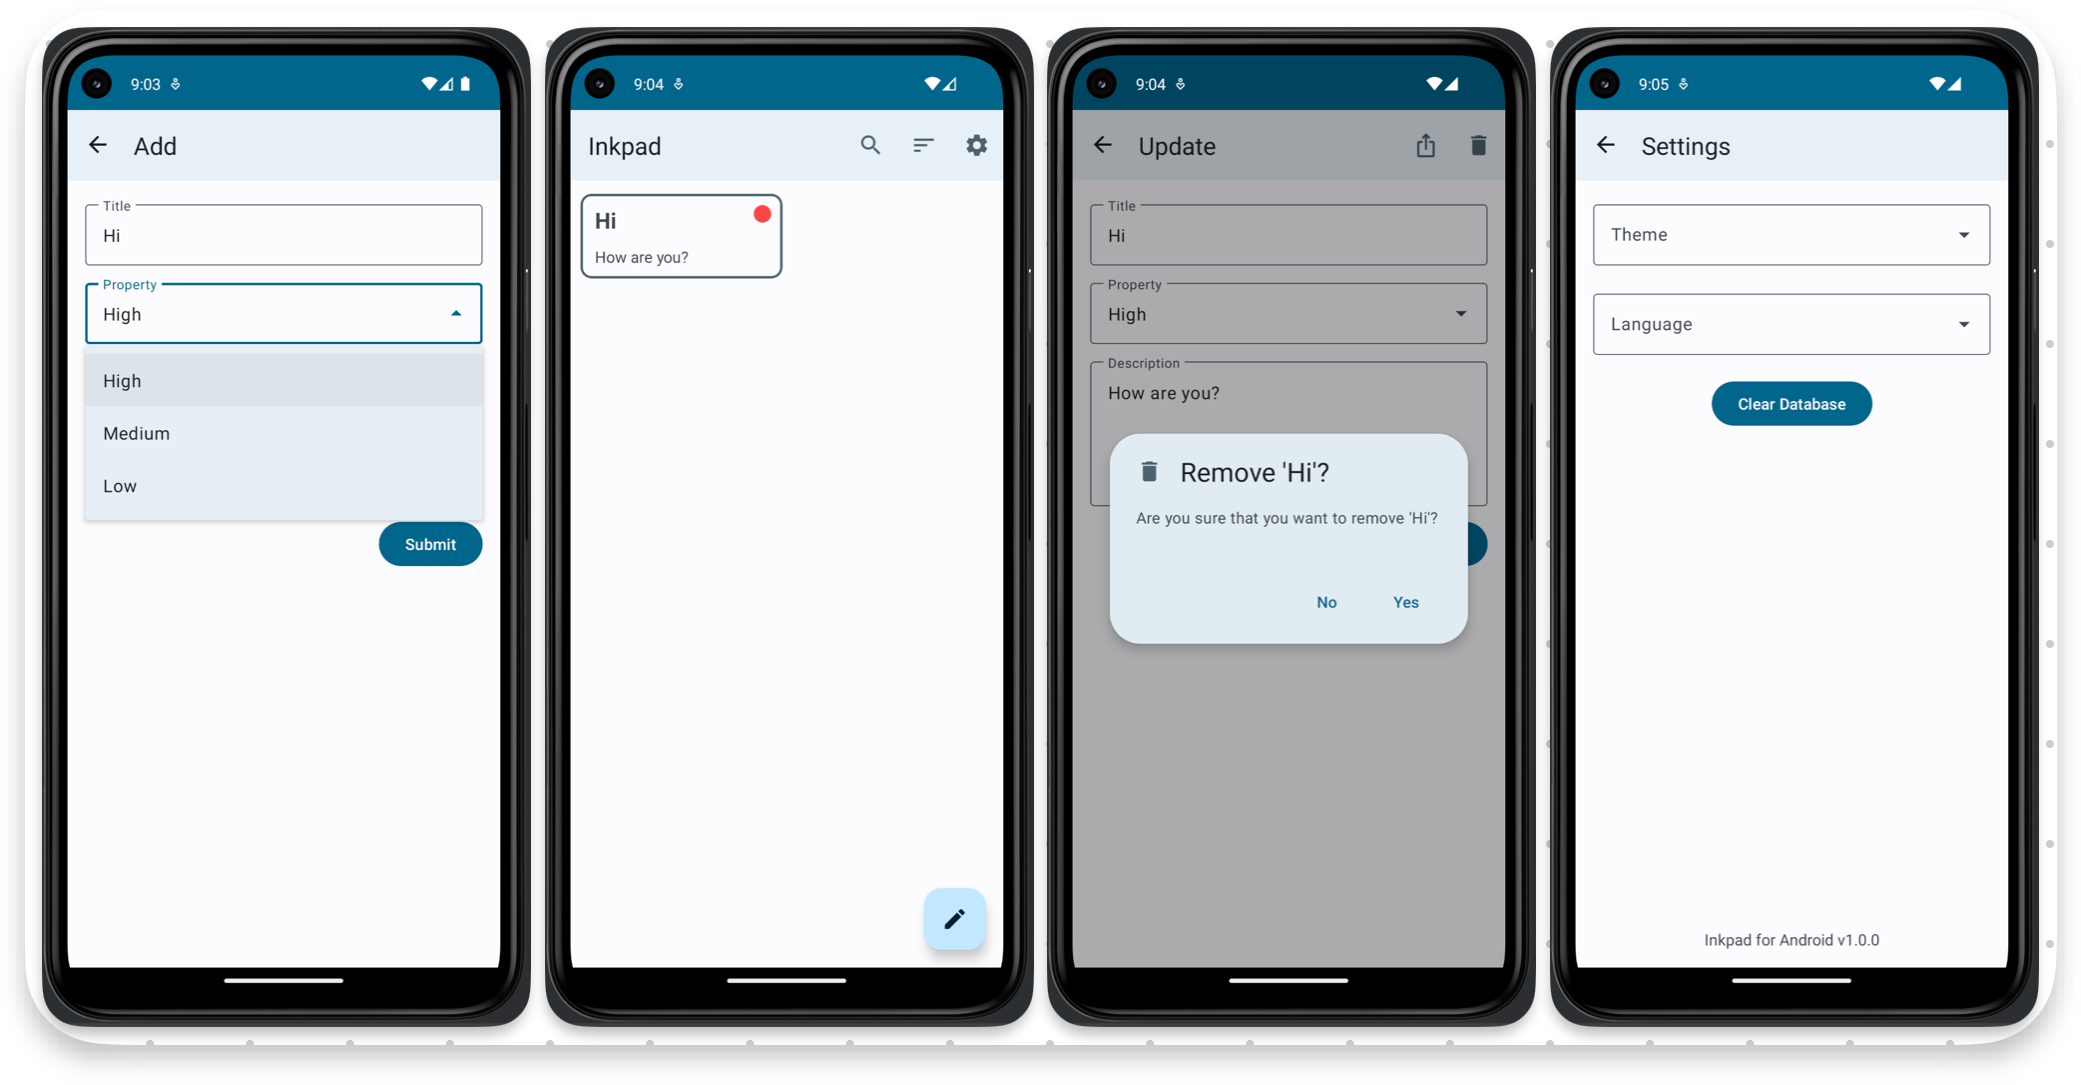
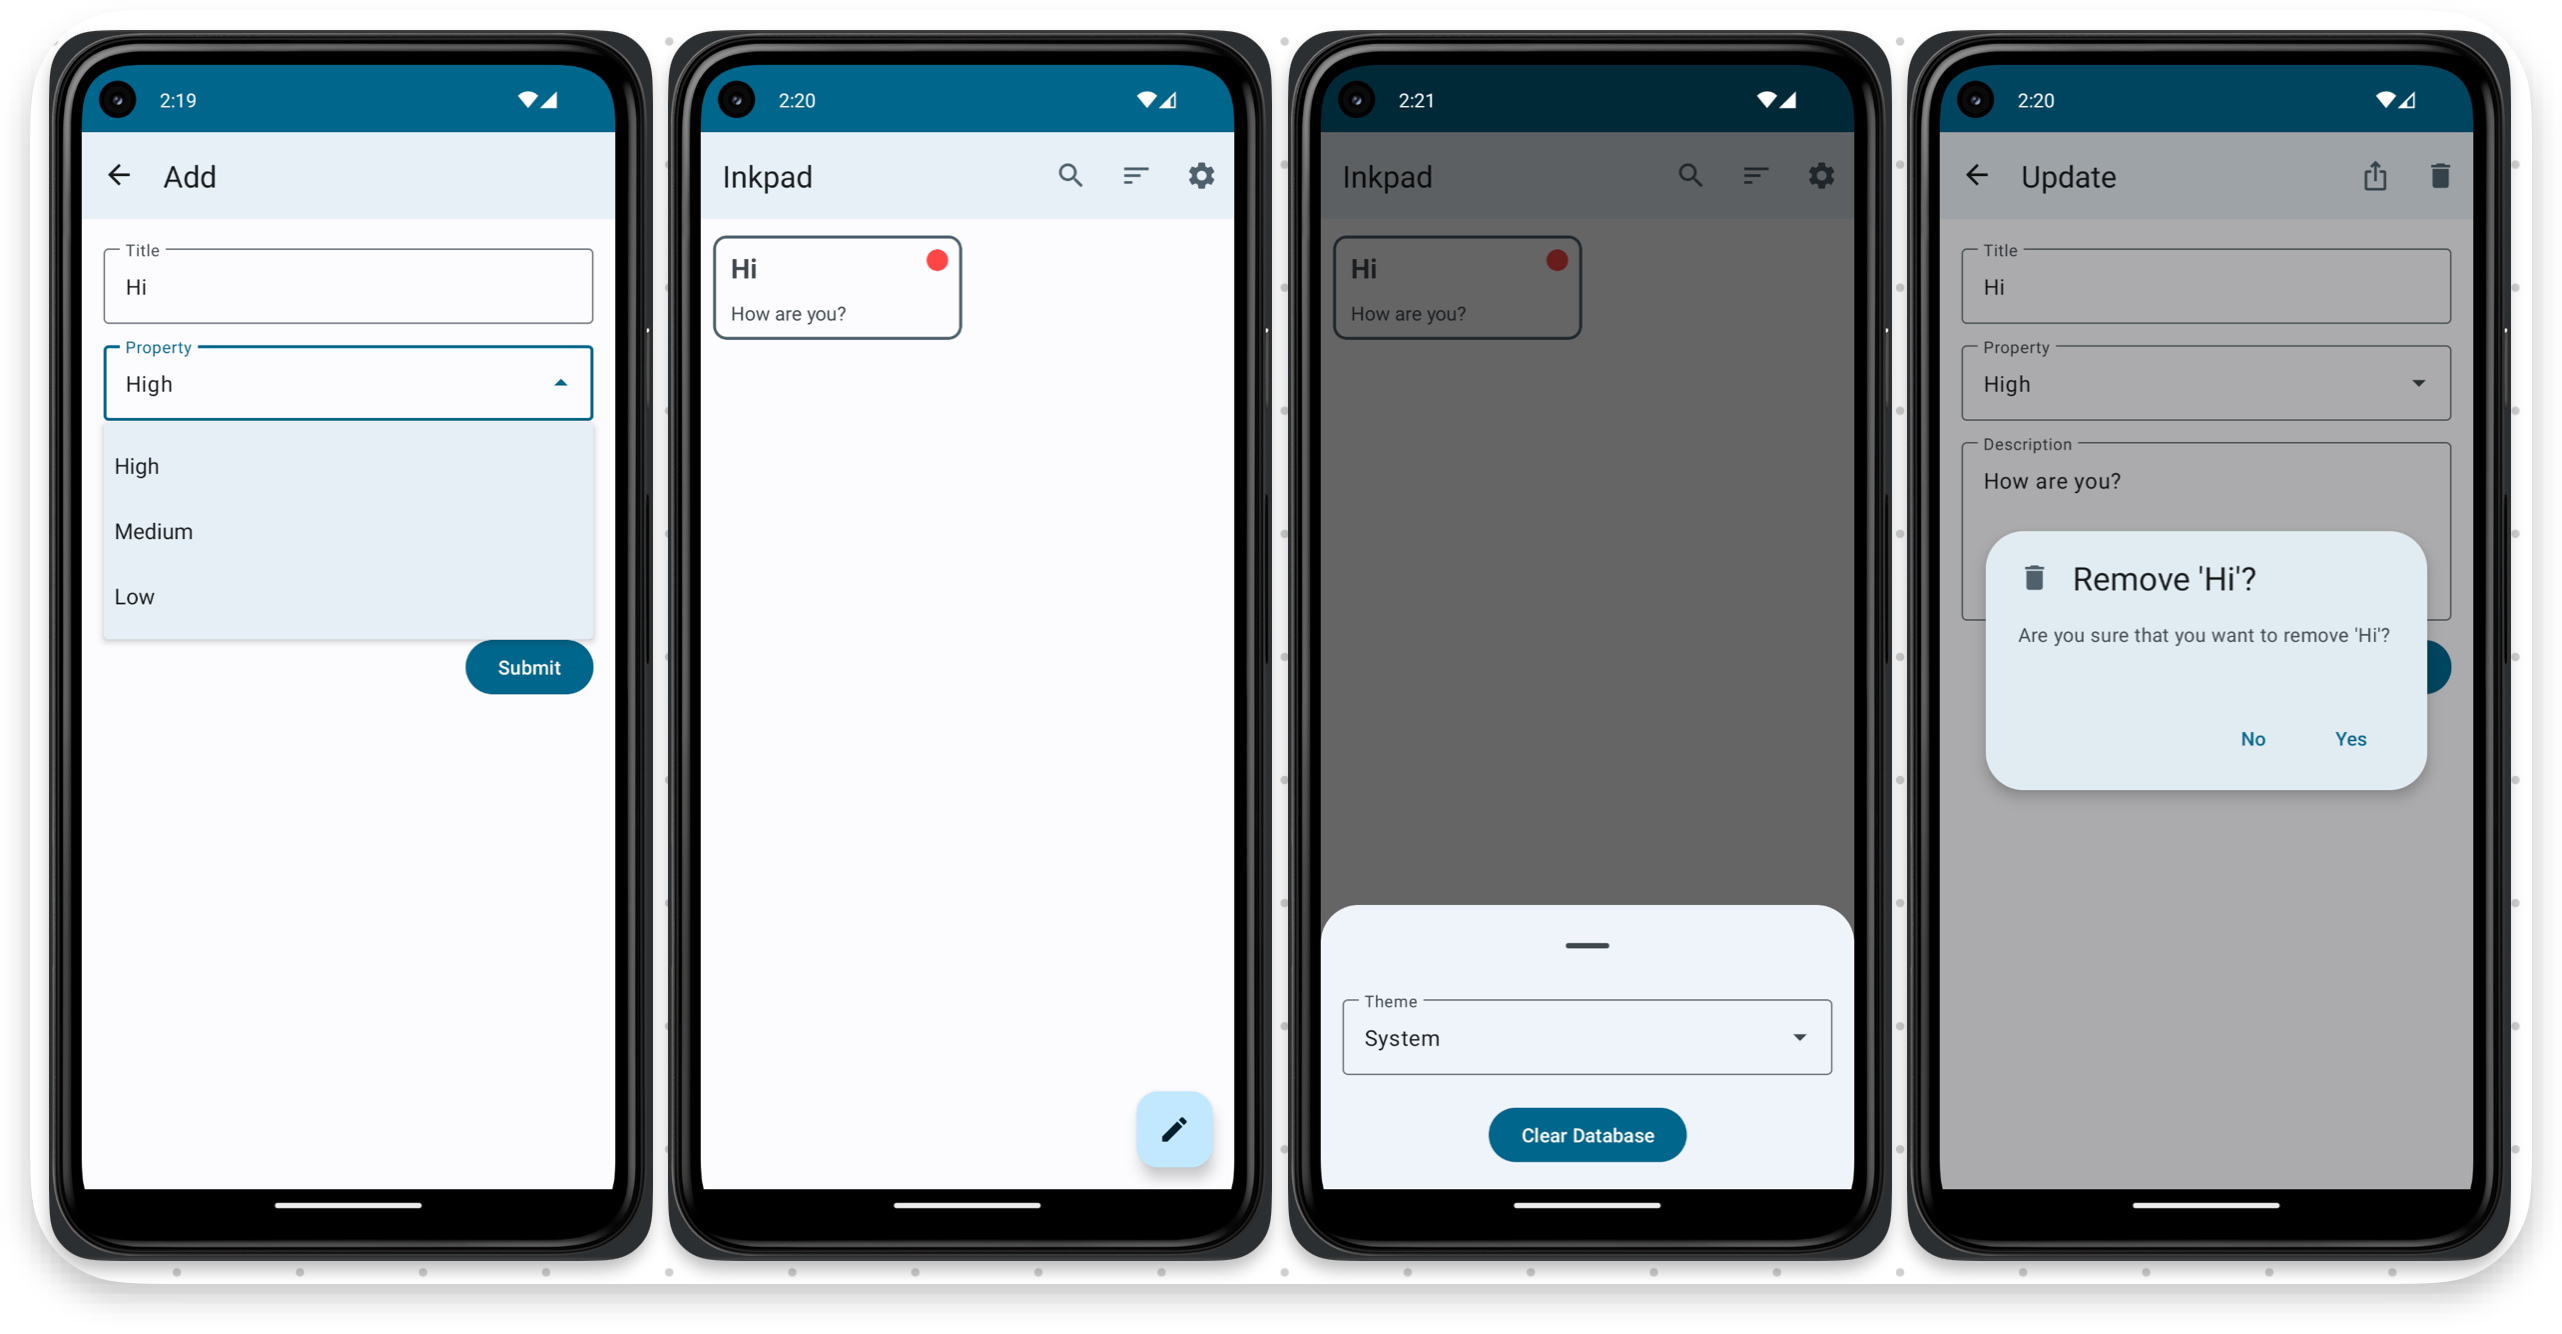
refactor: screenshots

diff --git a/README.md b/README.md
@@ -18,22 +18,22 @@ Clean Architecture with MVVM Pattern
 - Dagger
 - LiveData
 - DiffUtil
+- DataStore
 
 ### Functionality
 
 - Note:
-  - Get all
-  - Create
-  - Update
-  - Delete (both menu button and swipe to the left)
-  - Delete all
-  - Sort by high priority
-  - Sort by low priority
-  - Search
-  - Share
+    - Get all
+    - Create
+    - Update
+    - Delete (both menu button and swipe to the left)
+    - Delete all
+    - Sort by high priority
+    - Sort by low priority
+    - Search
+    - Share
 - App:
-  - Change the theme (future)
-  - Change the language (future)
+    - Change the theme
 
 ### Screenshots
 
